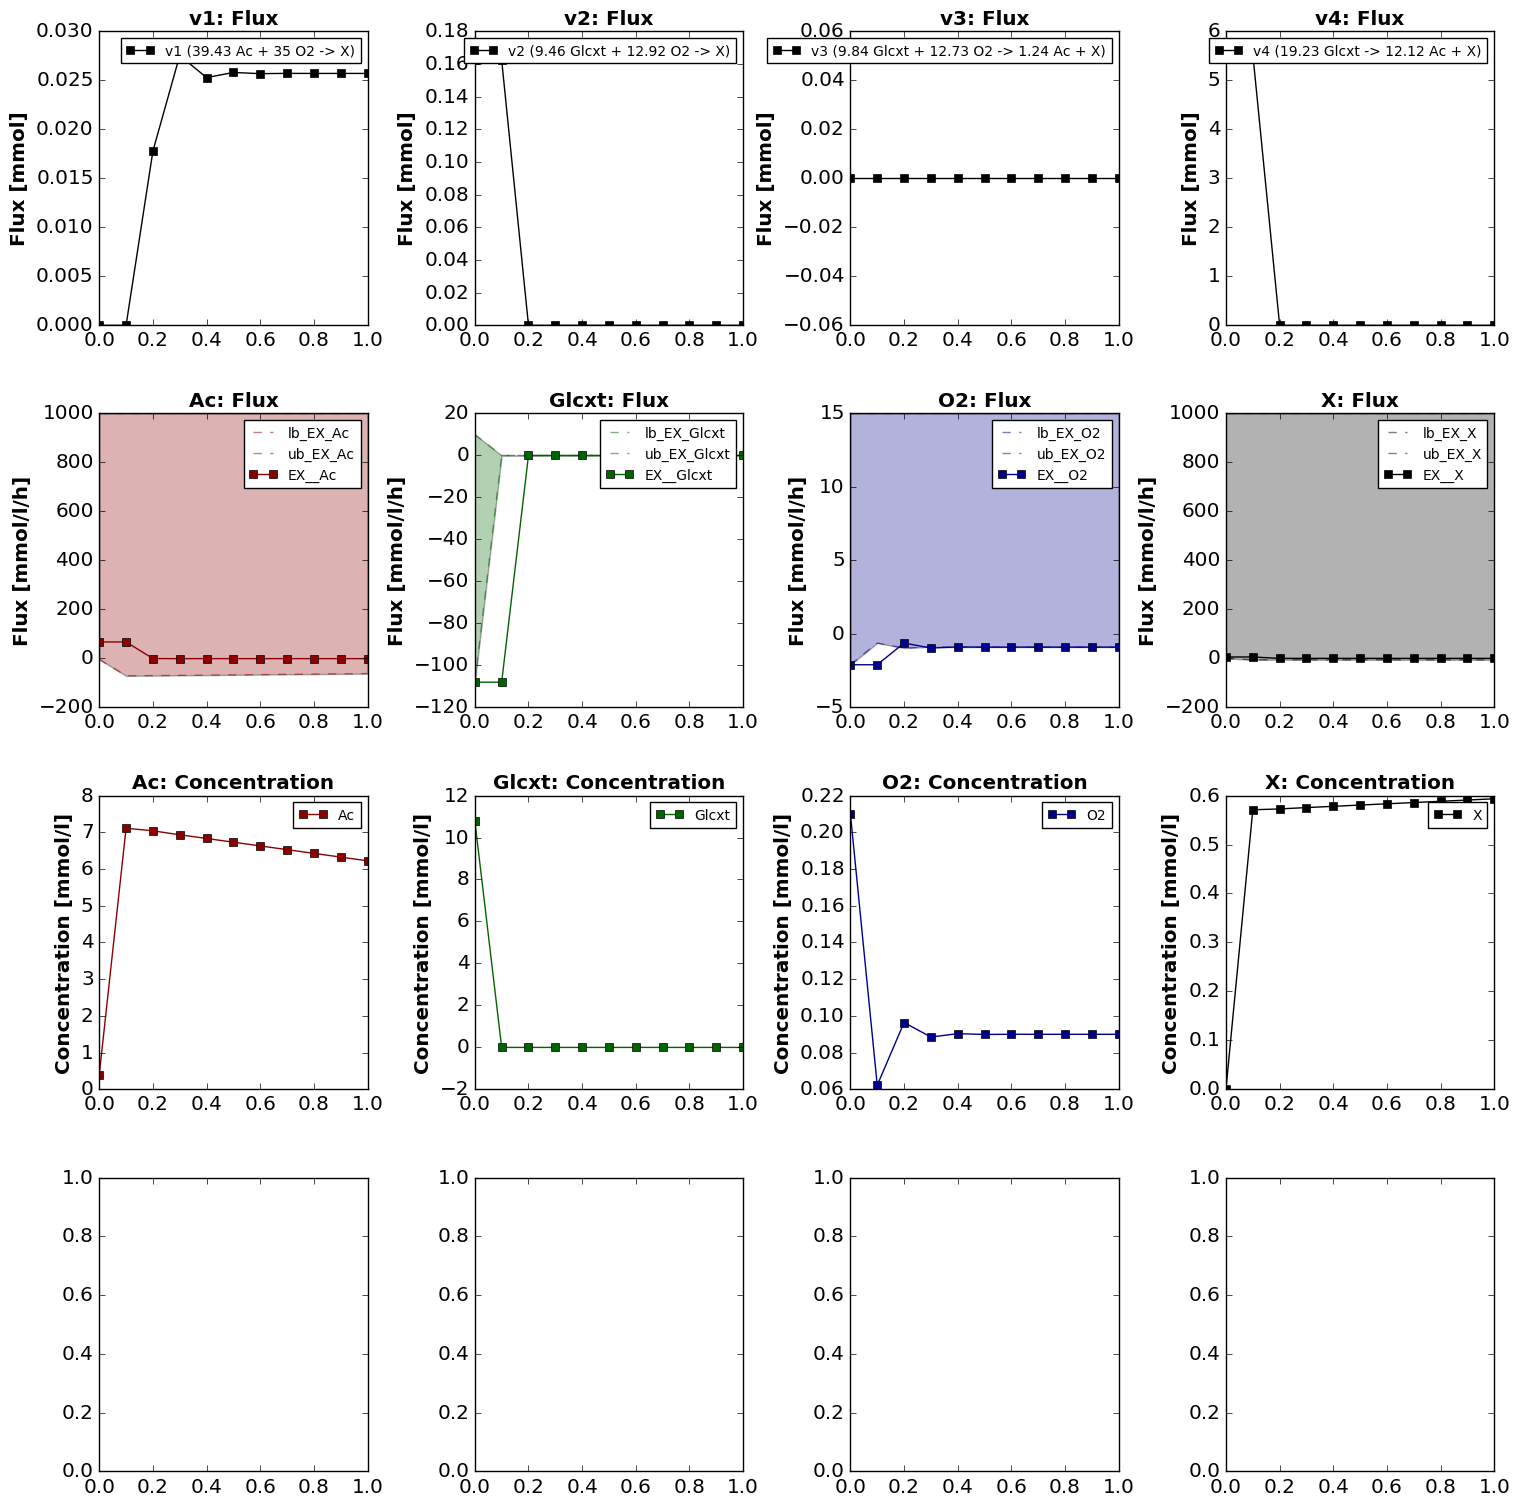
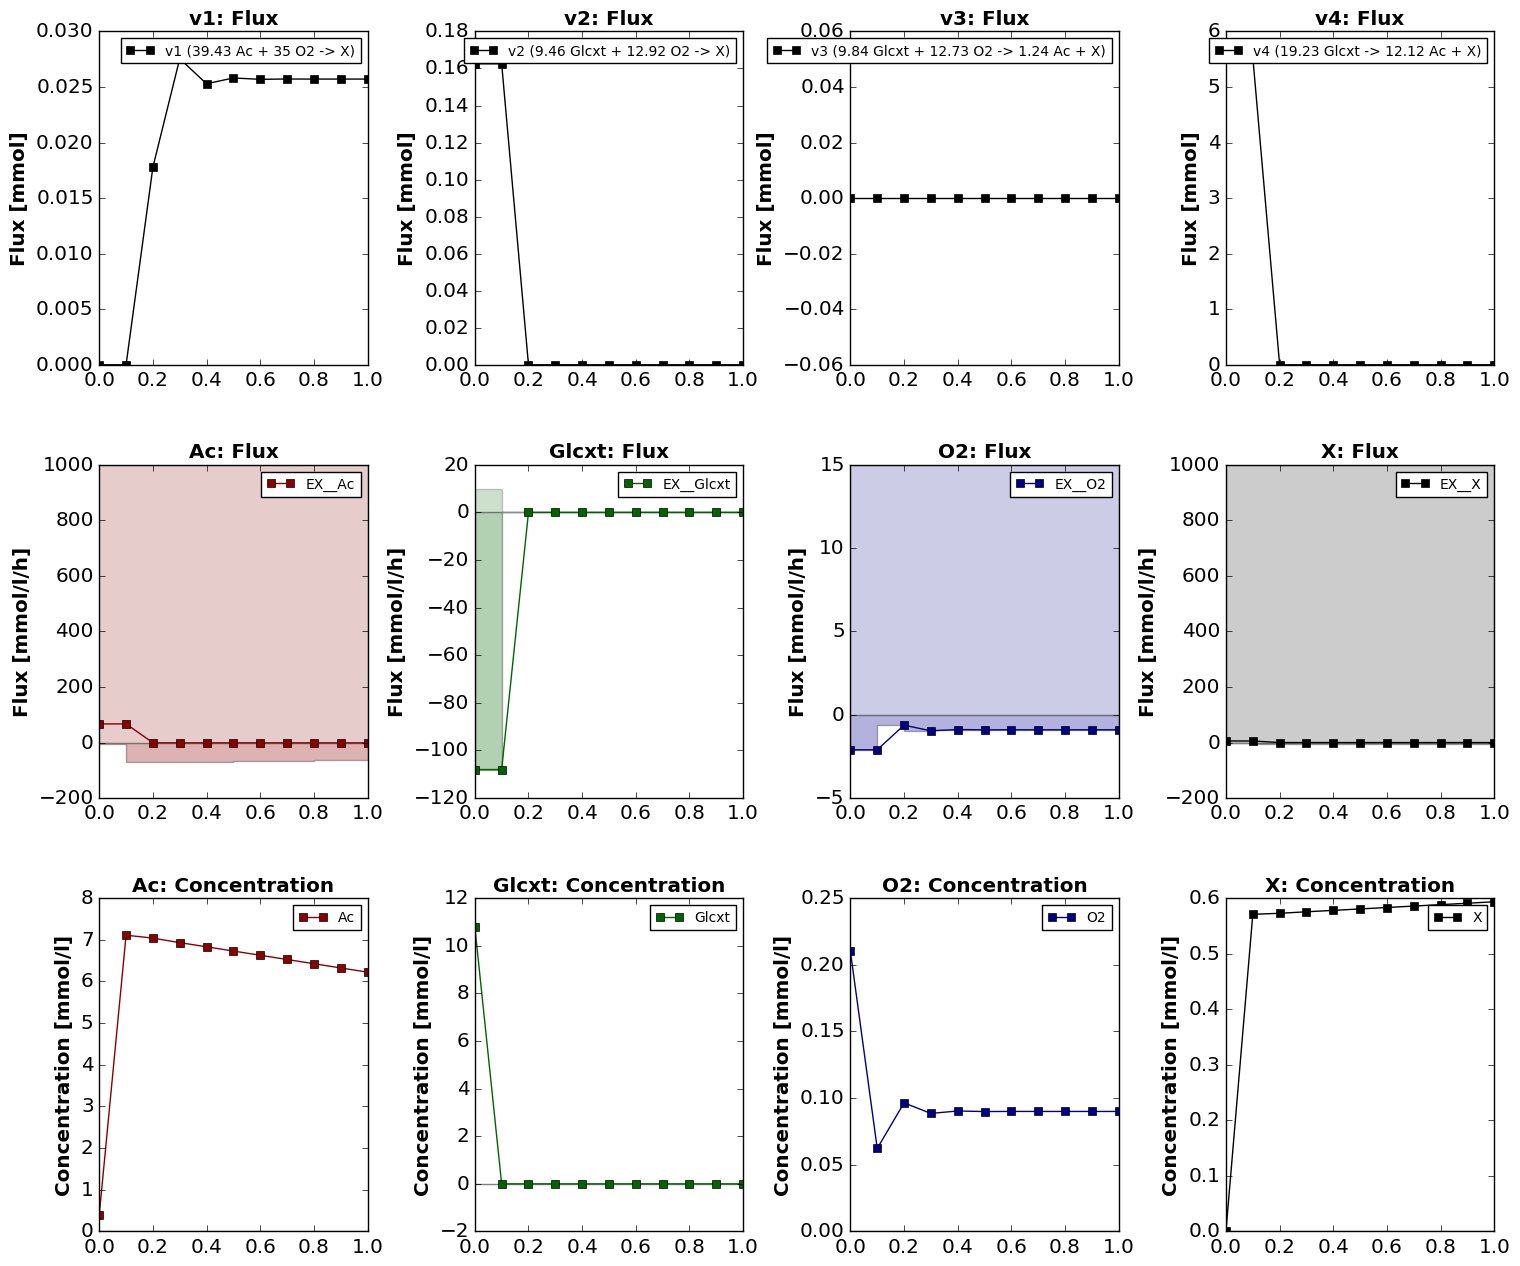
fixed bounds display

diff --git a/sbmlutils/dfba/diauxic_growth/simulate.py b/sbmlutils/dfba/diauxic_growth/simulate.py
@@ -3,6 +3,8 @@ from __future__ import print_function, division
 # directory to write files to
 import os
 import timeit
+import numpy as np
+
 from sbmlutils.dfba.simulator import SimulatorDFBA
 from sbmlutils.dfba.analysis import AnalysisDFBA
 
@@ -101,7 +103,7 @@ def print_fluxes(filepath, df):
     :param df:
     :return:
     """
-    fig, ((ax1, ax2, ax3, ax4), (ax5, ax6, ax7, ax8), (ax9, ax10, ax11, ax12), (ax13, ax14, ax15, ax16)) = plt.subplots(nrows=4, ncols=4, figsize=(18, 18))
+    fig, ((ax1, ax2, ax3, ax4), (ax5, ax6, ax7, ax8), (ax9, ax10, ax11, ax12)) = plt.subplots(nrows=3, ncols=4, figsize=(18, 15))
     fig.subplots_adjust(wspace=0.4, hspace=0.3)
 
     # exchange fluxes
@@ -128,10 +130,8 @@ def print_fluxes(filepath, df):
 
     # exchange fluxes with bounds
     for key, ax in mapping2.iteritems():
-        ax.plot(df.time, df['lb_EX_{}'.format(key)], linestyle='--', marker='None', color=colors[key], alpha=0.5, label="lb_EX_{}".format(key))
-        ax.plot(df.time, df['ub_EX_{}'.format(key)], linestyle='--', marker='None', color=colors[key], alpha=0.5, label="ub_EX_{}".format(key))
-        ax.fill_between(df.time, df['lb_EX_{}'.format(key)], df['ub_EX_{}'.format(key)], facecolor=colors[key], alpha=0.3, interpolate=False)
-
+        ax.fill_between(df.time, df['lb_EX_{}'.format(key)], np.zeros(len(df.time)), facecolor=colors[key], alpha=0.3, interpolate=False, step='post')
+        ax.fill_between(df.time, np.zeros(len(df.time)), df['ub_EX_{}'.format(key)], facecolor=colors[key], alpha=0.2, interpolate=False, step='post')
         ax.plot(df.time, df['EX_{}'.format(key)], linestyle='-', marker='s', color=colors[key], label="EX__{}".format(key))
 
         ax.set_ylabel('Flux [mmol/l/h]')
@@ -141,6 +141,7 @@ def print_fluxes(filepath, df):
 
     # concentrations
     for key, ax in mapping3.iteritems():
+        ax.plot([0, np.max(df.time)], [0, 0], color='gray', linestyle='-', linewidth=1)
         ax.plot(df.time, df['[{}]'.format(key)], linestyle='-', marker='s', color=colors[key], label="{}".format(key))
         ax.set_ylabel('Concentration [mmol/l]')
         ax.set_title('{}: Concentration'.format(key))
@@ -167,9 +168,8 @@ def print_fluxes(filepath, df):
     fig.savefig(filepath, bbox_inches='tight')
 
 
-
 if __name__ == "__main__":
-    import numpy as np
+
     print('Model:', sbml_top_path)
 
     import logging
